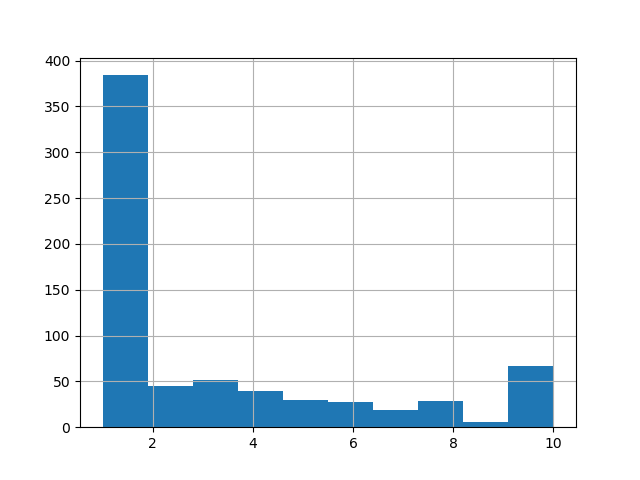
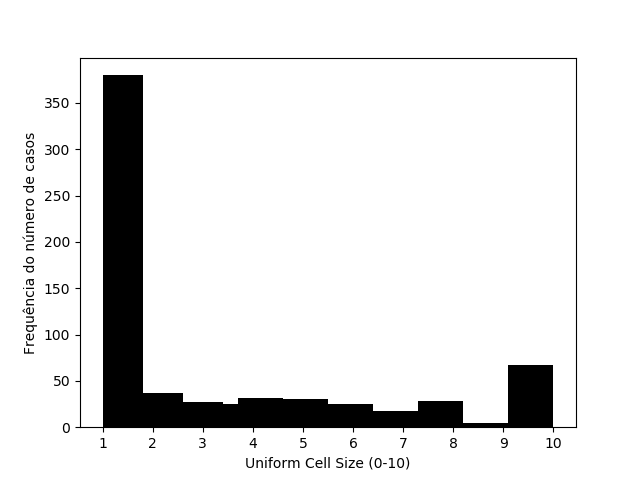
improve another image

diff --git a/ml-project/vizu-distribution-unif.py b/ml-project/vizu-distribution-unif.py
@@ -1,0 +1,15 @@
+import pandas as pd
+import matplotlib.pyplot as plt
+
+df = pd.read_csv('breast-cancer-wisconsin.data.txt')
+print(df.head())  
+#df['unif_cel_size'].hist()
+df.groupby('class')['unif_cel_size'].plot(kind='hist', color="black")
+
+plt.xlabel("Uniform Cell Size (0-10)", fontdict=None, labelpad=None, )
+plt.ylabel("Frequência do número de casos", fontdict=None, labelpad=None, )
+x = [1,2,3,4,5,6,7,8,9,10]
+plt.xticks(x)
+plt.show()
+
+

diff --git a/ml-project/vizu-distribution-grouped.py b/ml-project/vizu-distribution-grouped.py
@@ -1,4 +1,3 @@
-
 import pandas as pd
 import matplotlib.pyplot as plt
 
